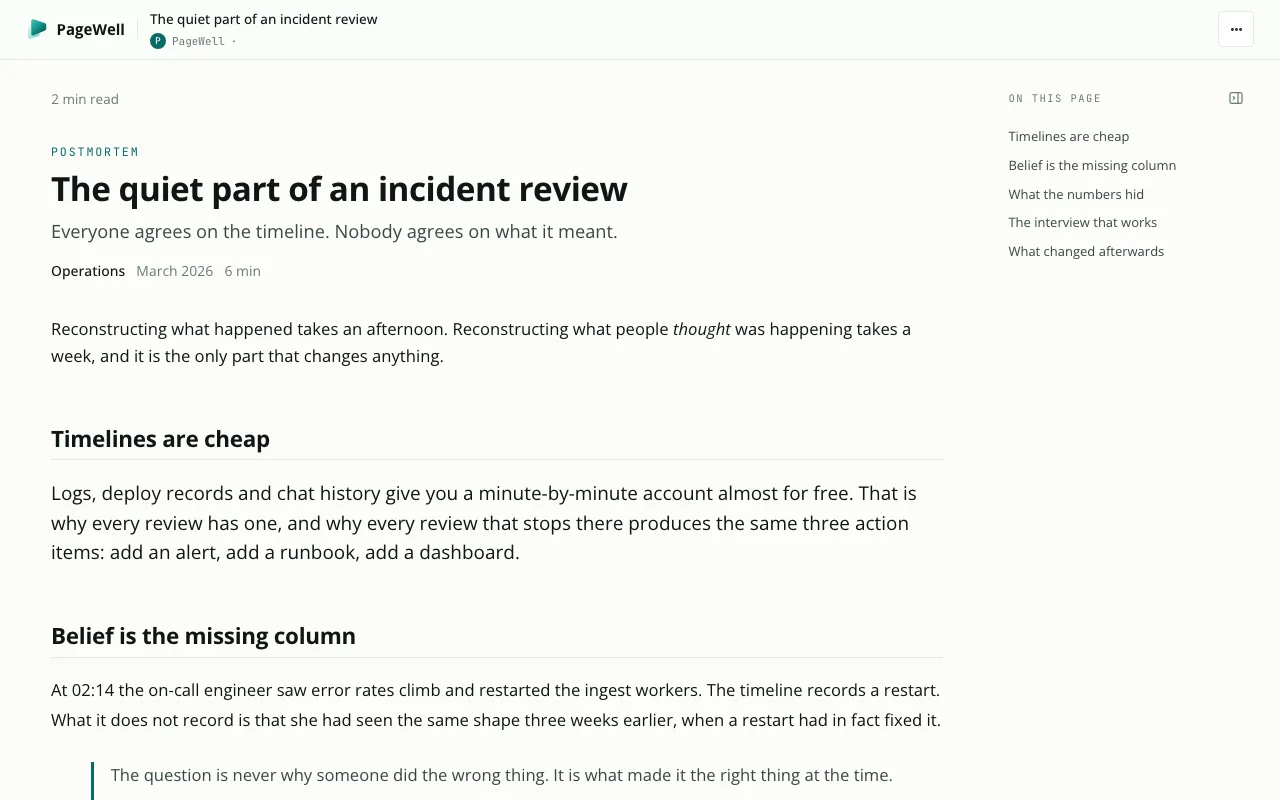
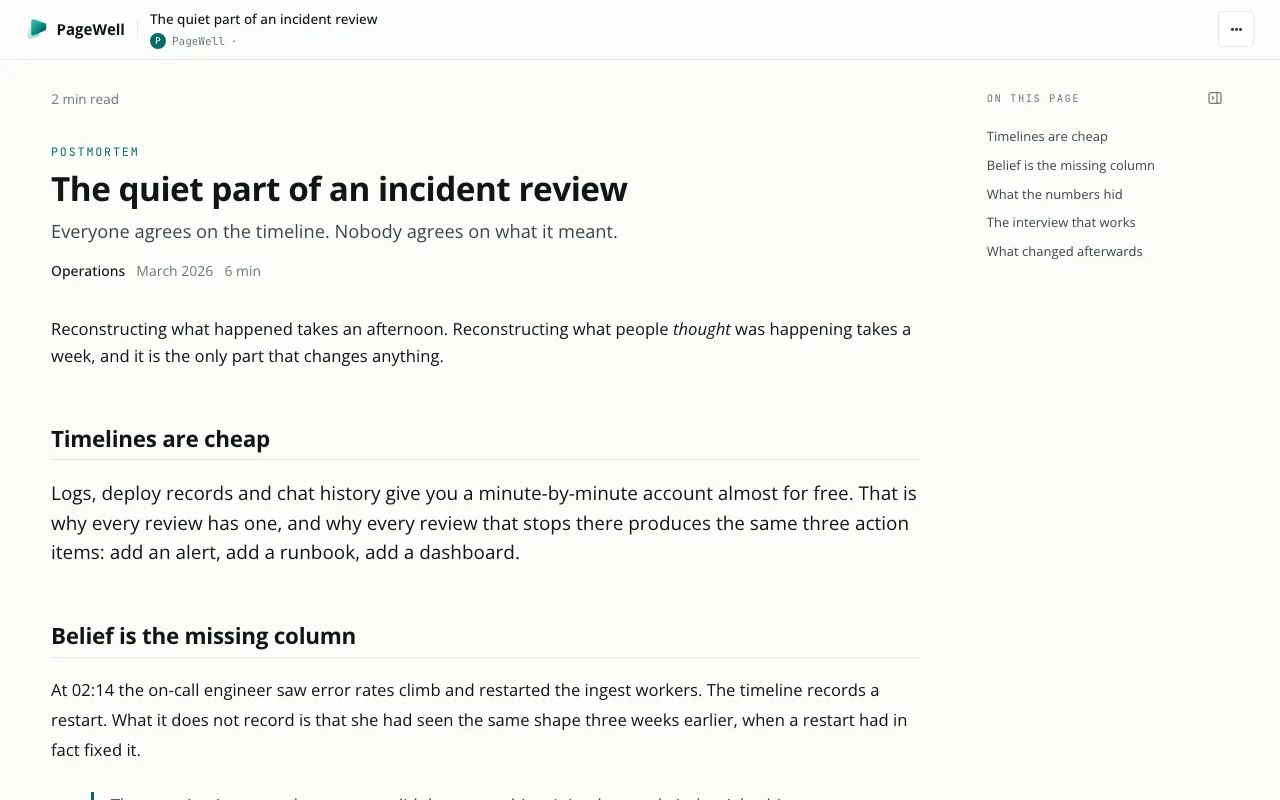
Publish pagewell v0.7.1
Built from pagewell@64400c5694034f9f785eb23bf48444d575fa9b23 at 2026-10-12T04:39:12Z.
Platforms: darwin/arm64,darwin/amd64,linux/amd64,linux/arm64,windows/amd64,windows/arm64, on the binaries branch.

This repository holds build artifacts only; the source lives upstream.

diff --git a/dsh/index.js b/dsh/index.js
@@ -9,7 +9,7 @@
  * the first time it is needed (scripts/install.sh).
  *
  * Plain ESM with no dependencies and no build step, on purpose:
- * `dsh plugin add github:pagewellai/pagewell-skill` fetches sources, not build
+ * `dsh plugin add github:pagewellai/pagewell` fetches sources, not build
  * output, and a `prepare` script would make every user allowlist a build before
  * the first install works. It does not reuse `@deepseek-ai/dsh-skill-filesystem`
  * either: that provider discovers `<root>/<name>/SKILL.md`, and this package is

diff --git a/README.md b/README.md
@@ -17,7 +17,7 @@ One command, any agent — it finds the agents on this machine and installs into
 each of them:
 
 ```bash
-npx skills add pagewellai/pagewell-skill -g
+npx skills add pagewellai/pagewell -g
 ```
 
 By hand: this repository **is** the skill — `SKILL.md` sits at its root, the
@@ -28,12 +28,12 @@ files; the history is not):
 
 | Agent | User-level | Inside a project |
 |---|---|---|
-| Claude Code | `git clone --depth 1 https://github.com/pagewellai/pagewell-skill ~/.claude/skills/pagewell` | `.claude/skills/` |
-| Codex | `git clone --depth 1 https://github.com/pagewellai/pagewell-skill ~/.codex/skills/pagewell` | `.agents/skills/` |
-| Cursor | `git clone --depth 1 https://github.com/pagewellai/pagewell-skill ~/.cursor/skills/pagewell` | `.agents/skills/` |
-| Gemini CLI | `git clone --depth 1 https://github.com/pagewellai/pagewell-skill ~/.gemini/skills/pagewell` | `.agents/skills/` |
-| GitHub Copilot | `git clone --depth 1 https://github.com/pagewellai/pagewell-skill ~/.copilot/skills/pagewell` | `.github/skills/` or `.agents/skills/` |
-| Windsurf | `git clone --depth 1 https://github.com/pagewellai/pagewell-skill ~/.codeium/windsurf/skills/pagewell` | `.windsurf/skills/` |
+| Claude Code | `git clone --depth 1 https://github.com/pagewellai/pagewell ~/.claude/skills/pagewell` | `.claude/skills/` |
+| Codex | `git clone --depth 1 https://github.com/pagewellai/pagewell ~/.codex/skills/pagewell` | `.agents/skills/` |
+| Cursor | `git clone --depth 1 https://github.com/pagewellai/pagewell ~/.cursor/skills/pagewell` | `.agents/skills/` |
+| Gemini CLI | `git clone --depth 1 https://github.com/pagewellai/pagewell ~/.gemini/skills/pagewell` | `.agents/skills/` |
+| GitHub Copilot | `git clone --depth 1 https://github.com/pagewellai/pagewell ~/.copilot/skills/pagewell` | `.github/skills/` or `.agents/skills/` |
+| Windsurf | `git clone --depth 1 https://github.com/pagewellai/pagewell ~/.codeium/windsurf/skills/pagewell` | `.windsurf/skills/` |
 | Anything else | its skills directory | most also read `.agents/skills/` |
 
 You do not have to install the CLI yourself: the first time the agent needs it,
@@ -53,15 +53,15 @@ registers this same `SKILL.md` with dsh's skill registry. There is no second
 copy of the instructions, no build step and nothing to configure.
 
 ```bash
-dsh plugin --profile web add github:pagewellai/pagewell-skill        # the web UI
-dsh plugin --profile desktop add github:pagewellai/pagewell-skill    # the desktop app, with the dsh command it installs
+dsh plugin --profile web add github:pagewellai/pagewell        # the web UI
+dsh plugin --profile desktop add github:pagewellai/pagewell    # the desktop app, with the dsh command it installs
 ```
 
-Or install `github:pagewellai/pagewell-skill` from the Plugins page. The `pagewell` skill then
+Or install `github:pagewellai/pagewell` from the Plugins page. The `pagewell` skill then
 appears in the agent's skill catalog: ask for an article, a page or a link, or
 type `/pagewell`.
 
-Installed the skill with `npx skills add pagewellai/pagewell-skill -g` already? dsh reads
+Installed the skill with `npx skills add pagewellai/pagewell -g` already? dsh reads
 `~/.agents/skills` as well, so it has the skill without the plugin; with both,
 dsh uses the `~/.agents/skills` copy.
 
@@ -71,7 +71,7 @@ installing the CLI and adding a template write to your home directory
 (`~/.config/pagewell`, `~/.local/bin`, `~/.cache/pagewell`), so the agent
 asks to run that one command outside the sandbox: approve it in dsh, then
 approve the device code in your browser. To update, run the command
-`pagewell doctor` names (`dsh plugin --profile <profile> add github:pagewellai/pagewell-skill`),
+`pagewell doctor` names (`dsh plugin --profile <profile> add github:pagewellai/pagewell`),
 or update PageWell from the Plugins page.
 
 ## Updating
@@ -79,7 +79,7 @@ or update PageWell from the Plugins page.
 Every activation starts with a read-only check for both halves:
 
 ```bash
-pagewell doctor --json --skill-version v0.7.0
+pagewell doctor --json --skill-version v0.7.1
 ```
 
 If either half is behind, the JSON includes the exact next command. The manual
@@ -125,7 +125,7 @@ which always holds the current release only. What changed is in
 ## Install only the CLI
 
 ```bash
-curl -fsSL https://raw.githubusercontent.com/pagewellai/pagewell-skill/main/scripts/install.sh | bash
+curl -fsSL https://raw.githubusercontent.com/pagewellai/pagewell/main/scripts/install.sh | bash
 ```
 
 The installer reads `uname`, downloads the matching binary from the

diff --git a/SKILL.md b/SKILL.md
@@ -9,7 +9,7 @@ description: >
   ("写篇文章", "原理演示", "讲解页"); also for house templates, charts,
   managing published pages, and X Article drafts ("发到 X 长文").
 metadata:
-  version: "v0.7.0"
+  version: "v0.7.1"
 ---
 
 # PageWell
@@ -55,7 +55,7 @@ Always begin with step 0. It is the automatic update check for both this skill
 text and the CLI; do not wait for the user to ask whether an update exists.
 
 ```
-0  pagewell doctor --json --skill-version v0.7.0
+0  pagewell doctor --json --skill-version v0.7.1
                                           not installed → scripts/install.sh
      unknown --skill-version → pagewell upgrade, then run step 0 again
      skill_update.available → run skill_update.command, then re-read SKILL.md
@@ -374,7 +374,7 @@ anyone's layout. Full format and the authoring loop: `references/templates.md`.
 | `conflict` | Show what changed and ask "overwrite" or "pull first". **Never decide to overwrite on your own** |
 | `unauthenticated` | Walk them into sign-in (§Signing in) — it doubles as sign-up. Do not fail silently, do not tell them to "register first" somewhere else |
 | A line on stderr says a newer pagewell is available | Finish the step you are on, then `pagewell upgrade` (and the `skill_update` command it prints, if any), then re-read SKILL.md if the text changed. Say so in one line; do not ask permission for a tool update, do ask before anything that touches their content |
-| `doctor.skill_update.available` is true | Run its `command` (normally `npx skills update pagewell -g -y`), then re-read SKILL.md before continuing. This updates instructions only; it does not touch the user's content. In DeepSeek Harness with the plugin it is `dsh plugin --profile … add github:pagewellai/pagewell-skill`; if `dsh` is not on PATH or the command fails, tell the user in one line to update PageWell from the Plugins page and carry on |
+| `doctor.skill_update.available` is true | Run its `command` (normally `npx skills update pagewell -g -y`), then re-read SKILL.md before continuing. This updates instructions only; it does not touch the user's content. In DeepSeek Harness with the plugin it is `dsh plugin --profile … add github:pagewellai/pagewell`; if `dsh` is not on PATH or the command fails, tell the user in one line to update PageWell from the Plugins page and carry on |
 | `doctor --skill-version` is unknown | The CLI predates automatic skill checks. Run `pagewell upgrade`, then repeat step 0 |
 | Storage is full | `pagewell usage --files 10 --json`. Suggest trash → the files marked unused → upgrade, in that order. Uploaded files count against the quota exactly like documents |
 | `plan_required` | A Free-plan limit (Spaces are Pro-only · 20 live shares · 2 agent tokens · no password shares · no sending to X) or a template above the plan. Say which one — the message names it — and offer the cheap way out first (keep it in Documents, revoke an unused share or token, or use `--mode code` instead of password); hand over `pagewell.ai/pricing` second. **Never complete a payment** |

diff --git a/CHANGELOG.md b/CHANGELOG.md
@@ -4,6 +4,12 @@ Every entry is a release: a semver tag here and on the source repository, one
 binary per platform on the `binaries` branch, and the `SKILL.md` that goes with it. Older CLIs keep working —
 the API only ever adds fields — but the newest is what the skill text describes.
 
+## v0.7.1 — 2026-10-12
+
+The repository is now github.com/pagewellai/pagewell (renamed from pagewell-skill). The old address keeps redirecting, so existing installs and older CLIs keep working unchanged. Install with `npx skills add pagewellai/pagewell -g`, or in DeepSeek Harness with `dsh plugin --profile web add github:pagewellai/pagewell`; the plugin package name stays pagewell-skill. pagewell doctor and pagewell upgrade now name the new address in their update commands. The Article template's desktop screenshot is refreshed: on article pages the outline on the right now mirrors the article's left margin, so both margins are equal at every window width.
+
+Source commit `64400c5`. Update with `pagewell upgrade`.
+
 ## v0.7.0 — 2026-10-12
 
 PageWell is now also a DeepSeek Harness plugin: package.json declares a dsh.bundle and dsh/index.js registers this same SKILL.md with dsh's skill registry, so `dsh plugin --profile web add github:pagewellai/pagewell-skill` (or the Plugins page) installs it. pagewell auth login --device-code <device_code> waits for the code an earlier --wait=false printed; before, a second auth login started a new code and the one the user approved was never collected. A sign-in that cannot store its token (an agent sandbox limited to the project) now stops with credentials_unwritable before starting or polling a code, instead of failing after approval and leaving an unused token behind. Hosted libraries are embedded even when the local cache cannot be written, and export only says the file opens with no network when nothing is missing. doctor and upgrade name the dsh plugin update when the skill came from it. SKILL: the description fits dsh's 500-character catalog, sign-in waits with --device-code, and sandboxed harnesses are told which commands need wider permission.

diff --git a/references/cli.md b/references/cli.md
@@ -27,7 +27,7 @@ published release. When `available` is true, run `command` and re-read SKILL.md.
 For the global install shown in the README the command is
 `npx skills update pagewell -g -y`. Inside DeepSeek Harness, with the skill
 installed as a plugin (the profile in `DSH_PROFILE` lists `pagewell-skill`), it
-is `dsh plugin --profile <profile> add github:pagewellai/pagewell-skill`. That
+is `dsh plugin --profile <profile> add github:pagewellai/pagewell`. That
 needs `dsh` and `pnpm` on PATH (for the `desktop` profile, the `dsh` command
 the desktop app installs); when they are not there or the command fails, the
 user updates PageWell from the Plugins page instead.
